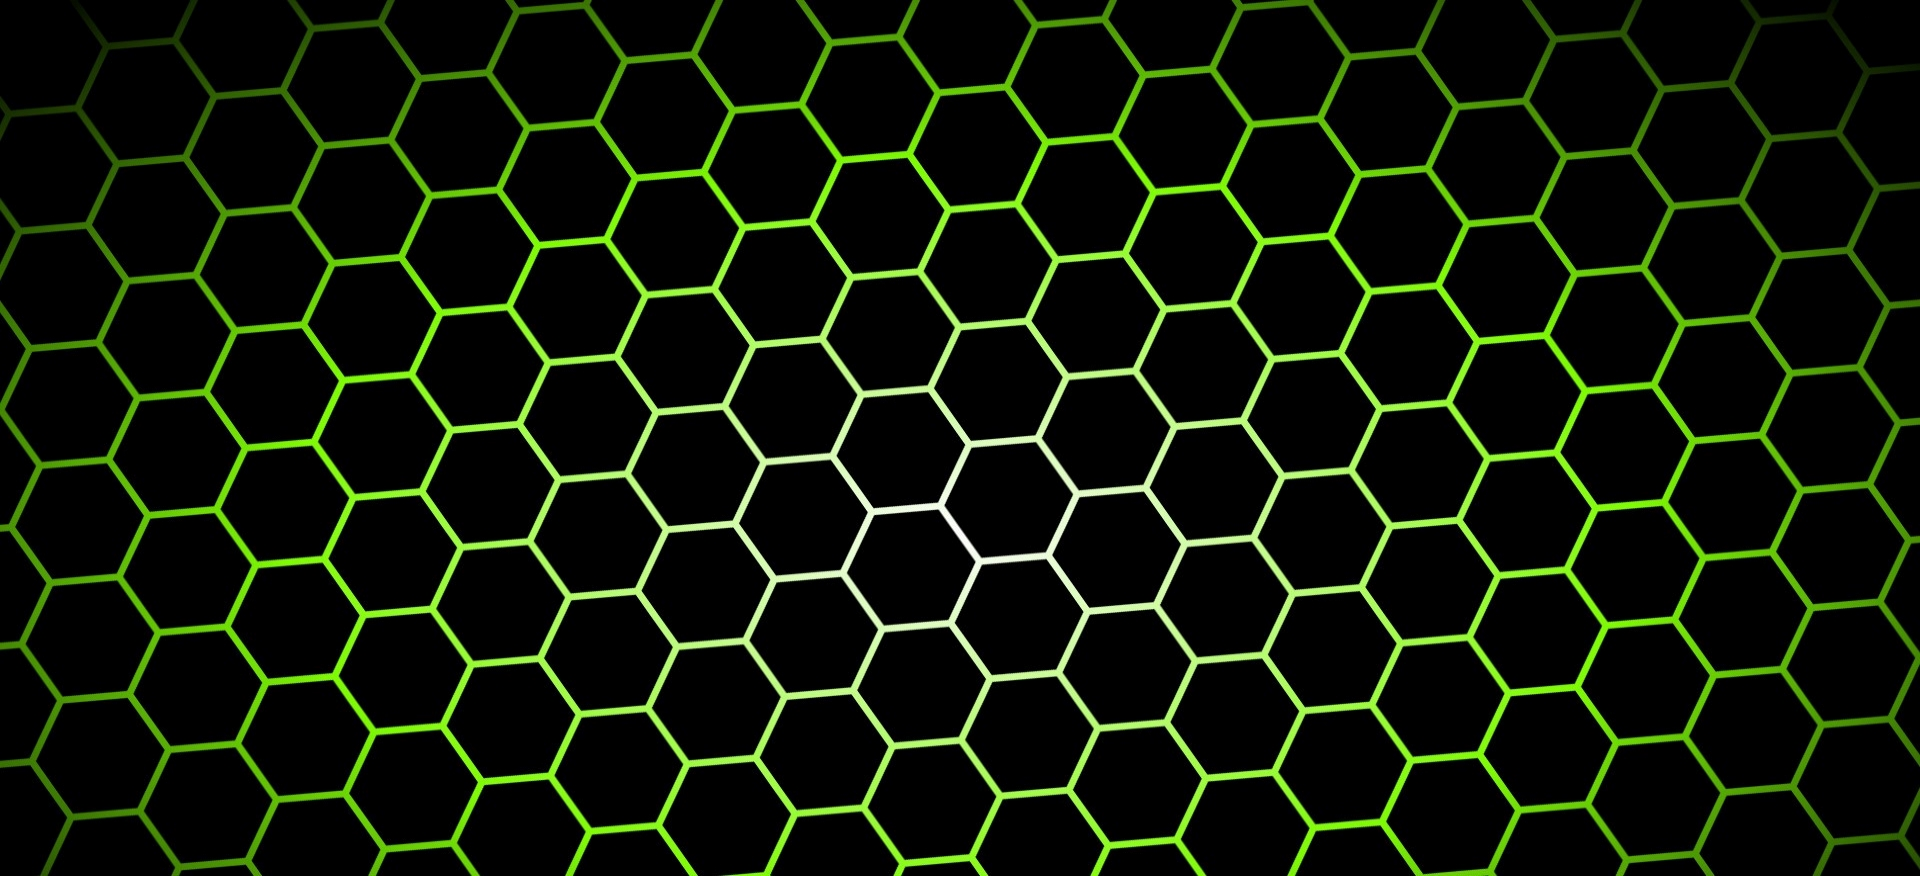
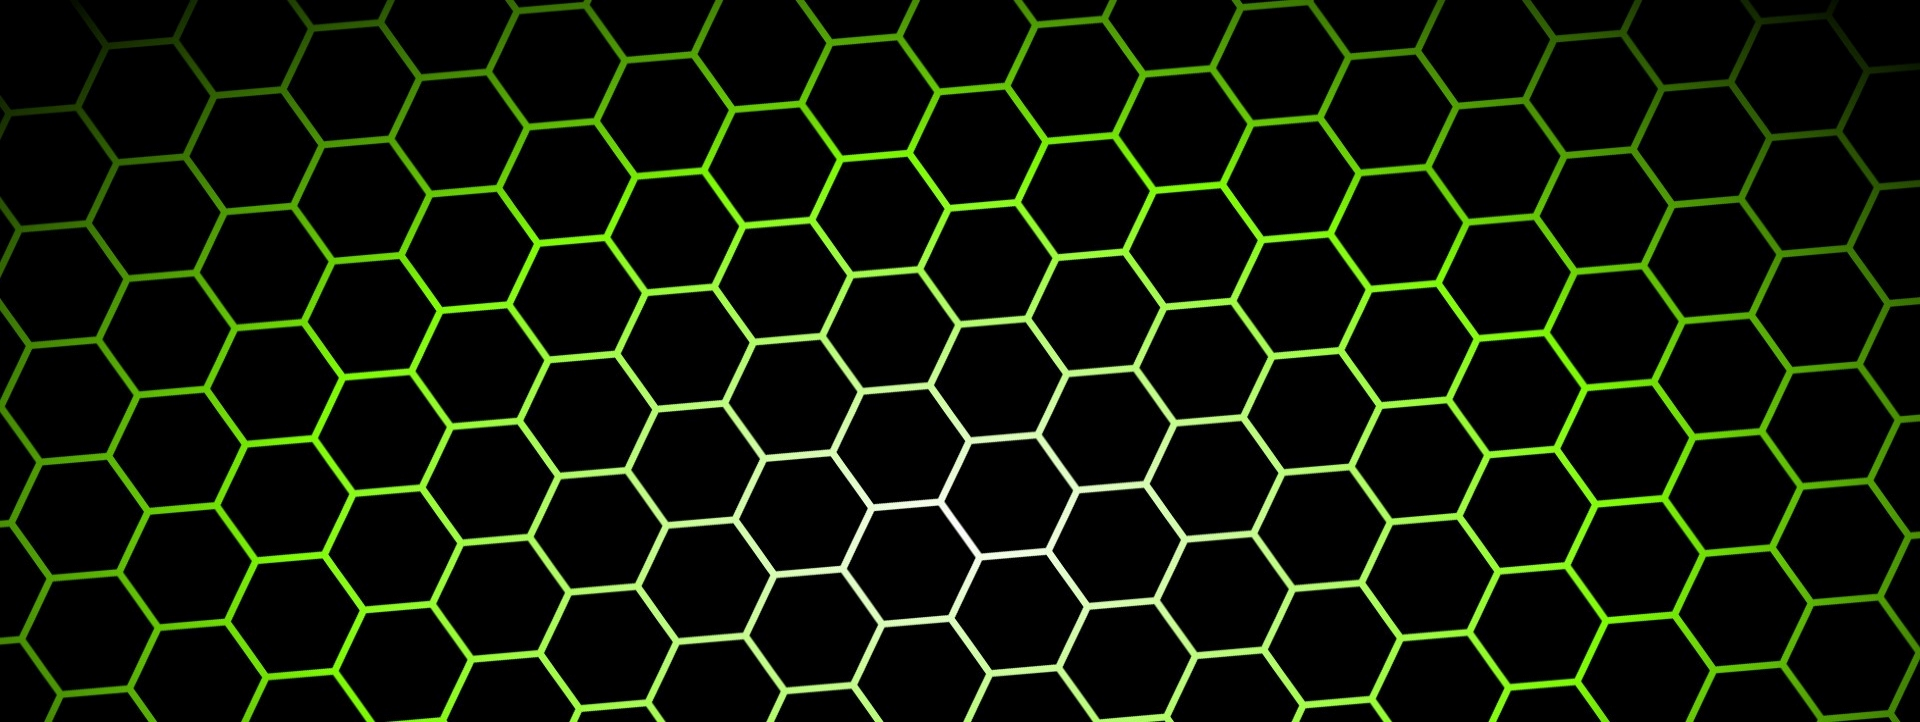
Scalling of Background Image
Finally Fixed :)

Changed region(s): [[0.0, 0.0, 1.0, 1.0]]

diff --git a/CSS/CSS.css b/CSS/CSS.css
@@ -209,19 +209,22 @@ hr{
     
     }
 
-    @media only screen and (max-width: 500px) {
+    @media only screen and (max-width: 670px) {
       .Background-Image{
-        height:250px;
+        height:2500px;
       }
     }
-    @media only screen and (max-width: 400px) {
+    @media only screen and (max-width: 570px) {
       .Background-Image{
-        height:220px;
+        height:240px;
       }
-    }
-    @media only screen and (max-width: 346px) {
-      .Background-Image{
-        height:270px;
-      }
+      @media only screen and (max-width: 470px) {
+        .Background-Image{
+          height:230px;
+        }
+        @media only screen and (max-width: 374px) {
+          .Background-Image{
+            height:270px;
+          }
     }
     /**/
